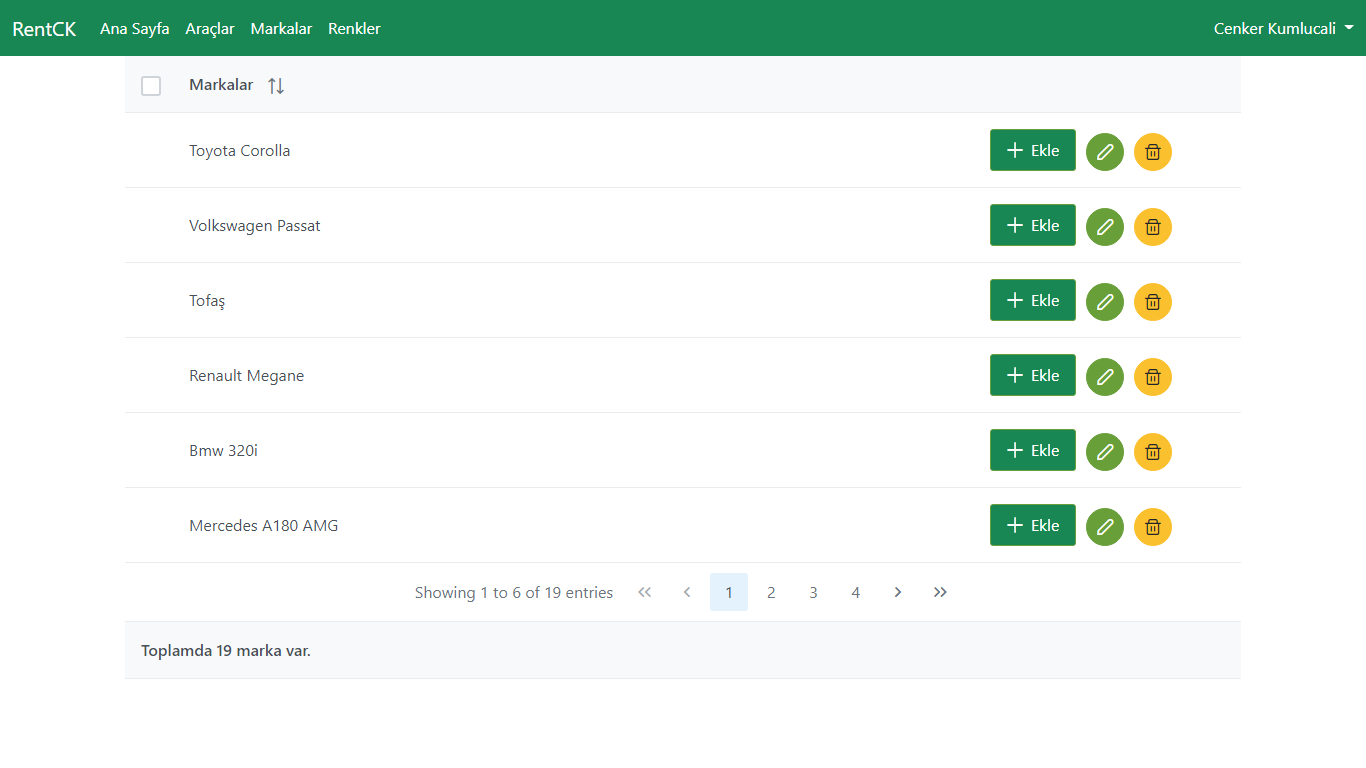
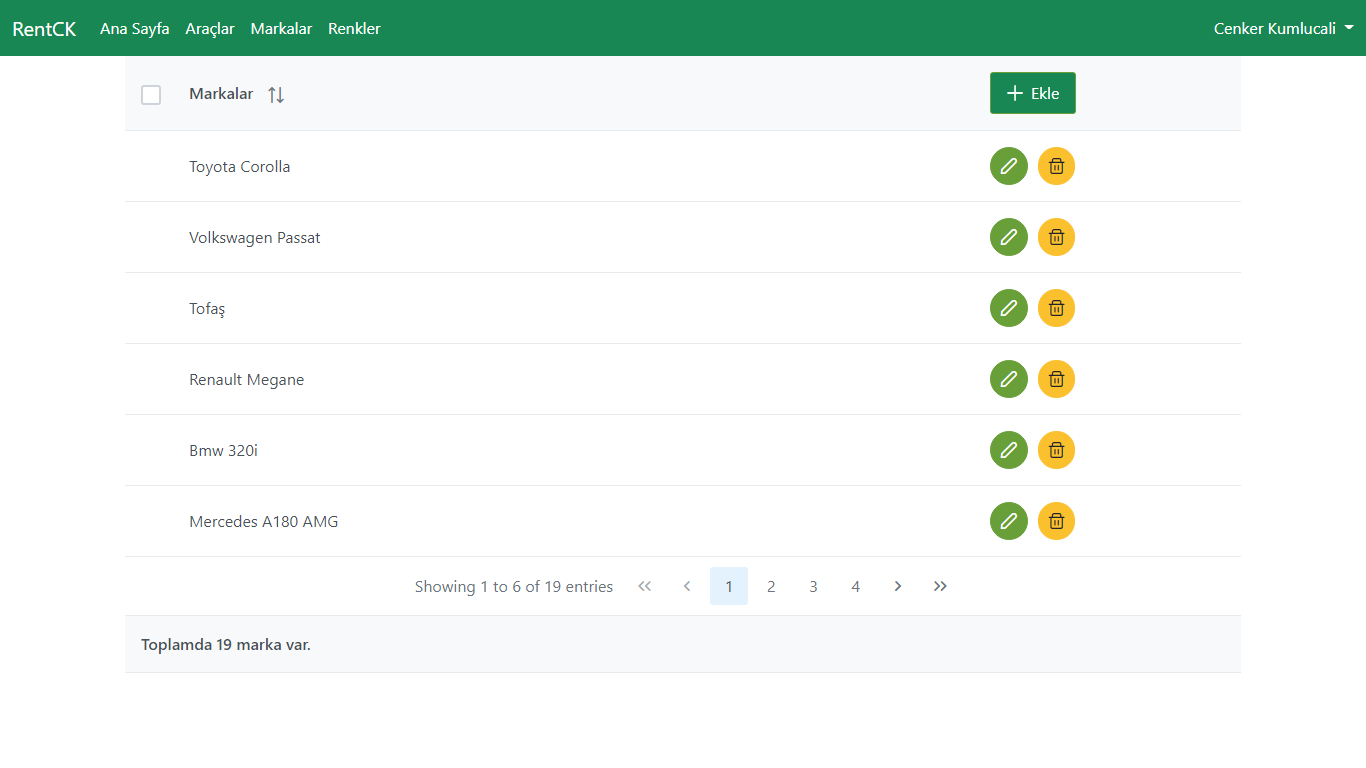
commit

diff --git a/src/app/component/color-list/color-list.component.html b/src/app/component/color-list/color-list.component.html
@@ -41,7 +41,7 @@ currentPageReportTemplate="Showing {first} to {last} of {totalRecords} entries"
         <th pSortableColumn="name">Renkler <p-sortIcon field="name"></p-sortIcon></th>
         <th></th>
         <th></th>
-        <th></th>
+        <th> <button style="background-color: #198754;"pButton pRipple label="Ekle" icon="pi pi-plus" class="p-button-success p-mr-2" routerLink="/colors/add"></button></th>
     </tr>
 </ng-template>
 <ng-template pTemplate="body" let-color>
@@ -51,7 +51,7 @@ currentPageReportTemplate="Showing {first} to {last} of {totalRecords} entries"
       <td> </td>
       <td> </td>
         <td>
-            <button style="background-color: #198754;margin-right: 10px;"pButton pRipple label="Ekle" icon="pi pi-plus" class="p-button-success p-mr-2" routerLink="/colors/add"></button>
+           
             <button *ngIf="checkToLogin()" style="margin-right:10px;" pButton pRipple icon="pi pi-pencil" class="p-button-rounded p-button-success p-mr-2" routerLink="/colors/update/{{color.colorId}}"></button>
             <button *ngIf="checkToLogin()"  pButton pRipple icon="pi pi-trash" class="p-button-rounded p-button-warning"(click)="deleteColor(color)"></button>
         </td>

diff --git a/src/app/component/brand/brand.component.html b/src/app/component/brand/brand.component.html
@@ -41,7 +41,8 @@ currentPageReportTemplate="Showing {first} to {last} of {totalRecords} entries"
         <th pSortableColumn="name">Markalar <p-sortIcon field="name"></p-sortIcon></th>
         <th></th>
         <th></th>
-        <th></th>
+        <th><button style="background-color: #198754;"pButton pRipple label="Ekle" icon="pi pi-plus" class="p-button-success p-mr-2" routerLink="/brands/add"></button></th>
+
     </tr>
 </ng-template>
 <ng-template pTemplate="body" let-brand>
@@ -51,7 +52,7 @@ currentPageReportTemplate="Showing {first} to {last} of {totalRecords} entries"
       <td> </td>
       <td> </td>
         <td>
-          <button style="background-color: #198754;margin-right: 10px;"pButton pRipple label="Ekle" icon="pi pi-plus" class="p-button-success p-mr-2" routerLink="/brands/add"></button>
+         
             <button *ngIf="checkToLogin()" style="margin-right:10px;" pButton pRipple icon="pi pi-pencil" class="p-button-rounded p-button-success p-mr-2" routerLink="/brands/update/{{brand.brandId}}"></button>
             <button *ngIf="checkToLogin()"  pButton pRipple icon="pi pi-trash" class="p-button-rounded p-button-warning"(click)="deleteBrand(brand)"></button>
         </td>
